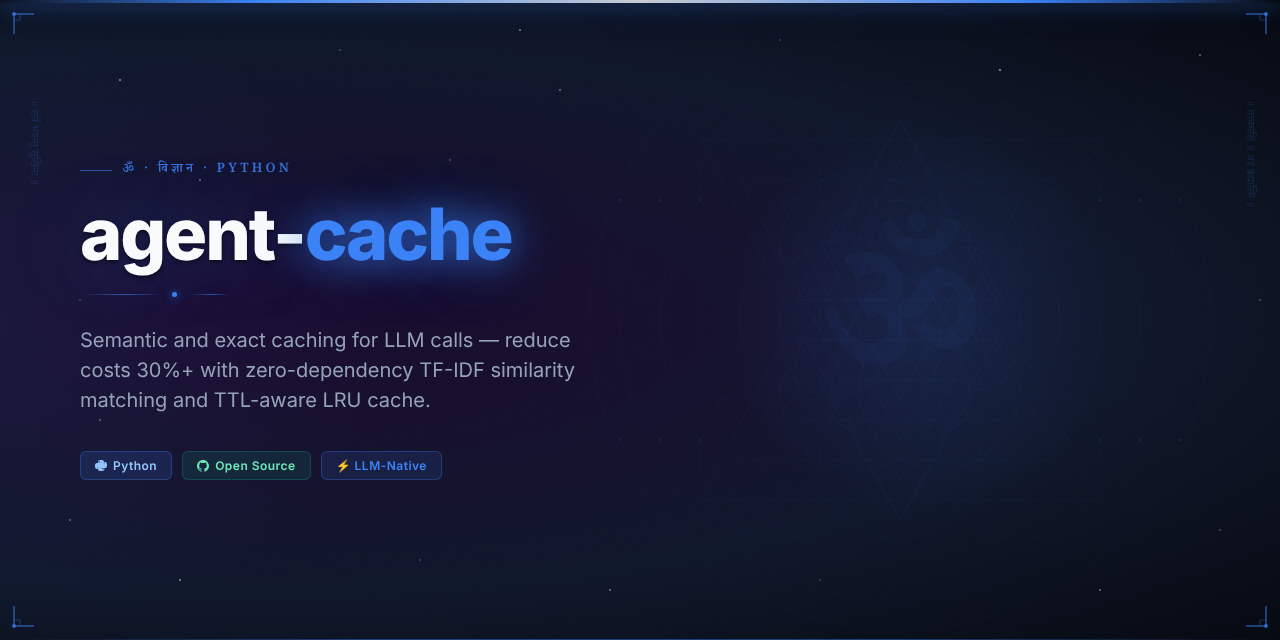
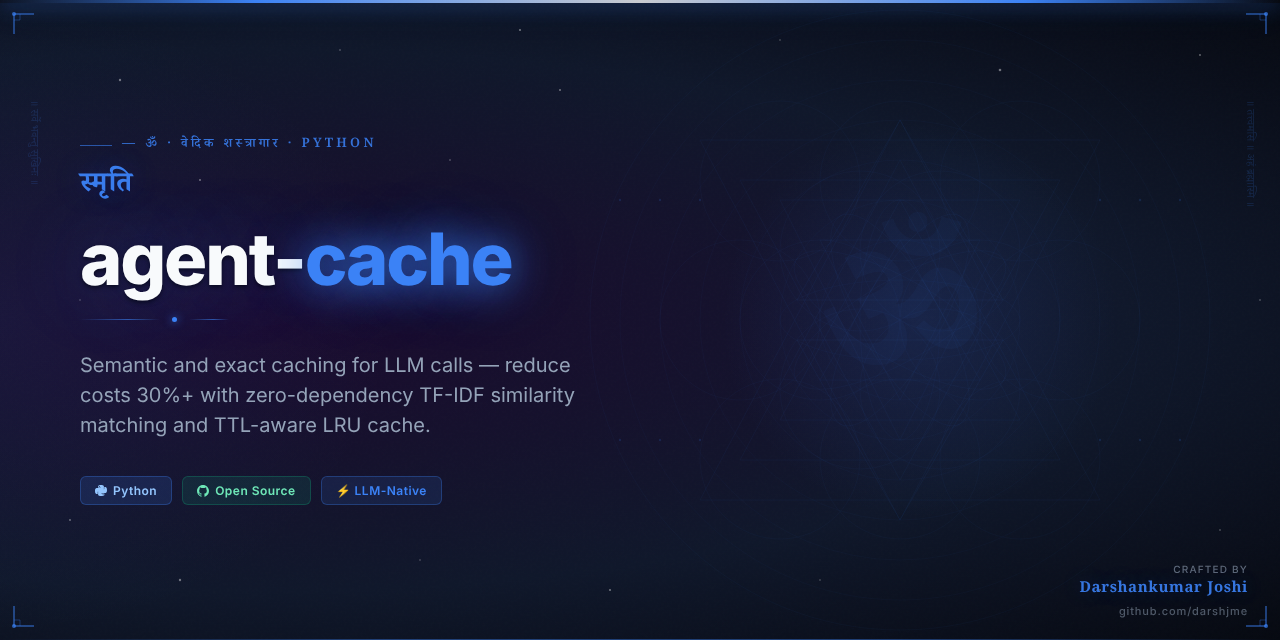
feat: add Vedic Arsenal hero image and updated README
Part of darshjme/arsenal — 100 production-grade Python libraries for LLM agents.
Vedic branding: ancient philosophy meets modern AI engineering.

diff --git a/README.md b/README.md
@@ -1,10 +1,12 @@
 <div align="center">
 
-<img src="assets/agent-cache-hero.png" alt="agent-cache — Vedic Arsenal" width="100%" />
+<img src="assets/agent-cache-hero.png" alt="agent-cache — Vedic Arsenal by Darshankumar Joshi" width="100%" />
 
 # 🌊 agent-cache
 
-### *स्मृति* — Smriti — sacred memory that persists across lifetimes
+<h3><em>स्मृति</em></h3>
+
+> *Smriti — sacred memory that persists across lifetimes*
 
 **Semantic and exact caching for LLM calls — reduce costs 30%+ with zero-dependency TF-IDF similarity matching and TTL-aware LRU cache.**
 
@@ -39,6 +41,20 @@ Or clone directly:
 git clone https://github.com/darshjme/agent-cache.git
 cd agent-cache
 pip install -e .
+```
+
+## How It Works
+
+```mermaid
+flowchart LR
+    A[LLM Request] --> B{Cache Hit?}
+    B -- Exact Hit --> C[Return Cached]
+    B -- Semantic Hit --> D[TF-IDF Similarity]
+    D --> C
+    B -- Miss --> E[Call LLM API]
+    E --> F[Store in Cache]
+    F --> C
+    style B fill:#6b21a8,color:#fff
 ```
 
 ## Quick Start
@@ -90,7 +106,7 @@ MIT — use freely, build freely.
 
 <div align="center">
 
-**Built with 🌊 by [Darshankumar Joshi](https://github.com/darshjme)**
+**Built with 🌊 by [Darshankumar Joshi](https://github.com/darshjme)** · [@thedarshanjoshi](https://twitter.com/thedarshanjoshi)
 
 *"कर्मण्येवाधिकारस्ते मा फलेषु कदाचन"*
 *Your right is to action alone, never to the fruits thereof.*
